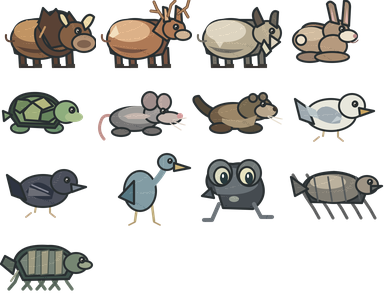
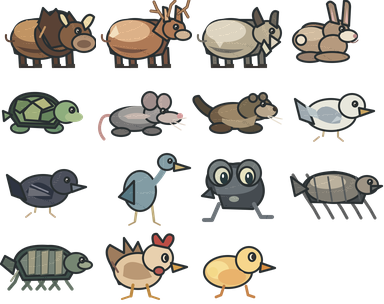
Complete V124 wildlife set with hens and growing ducklings, preserve flight lifecycle

Changed region(s): [[0.25, 0.7697, 0.5, 1.0], [0.5312, 0.7993, 0.7188, 0.977]]

diff --git a/haigen-v124-fauna-playtest.html b/haigen-v124-fauna-playtest.html
@@ -1091,17 +1091,17 @@ illustratedExtraFauna.onload=()=>{
  window.__v124ExtraFaunaReady=illustratedExtraReady;
 };
 illustratedExtraFauna.onerror=()=>{illustratedExtraReady=false;window.__v124ExtraFaunaReady=false};
-illustratedExtraFauna.src='./assets/haigen-extra-fauna-v124.png?v=1';
+illustratedExtraFauna.src='./assets/haigen-extra-fauna-v124.png?v=2';
 const extraFaunaCells={
  bison:[0,0],stag:[1,0],goat:[2,0],hare:[3,0],
  turtle:[0,1],rat:[1,1],otter:[2,1],gull:[3,1],
  raven:[0,2],heron:[1,2],watcher:[2,2],ashCreeper:[3,2],
- scuttleback:[0,3]
+ scuttleback:[0,3],chicken:[1,3],duckling:[2,3]
 };
 function drawIllustratedExtraFauna(kind,x,y,dir='right',walking=false,anim=0,scale=1){
  const cell=extraFaunaCells[kind];if(!illustratedExtraReady||!cell)return false;
  const large=['bison','stag','goat'].includes(kind);
- const gScale=(large?1.1:kind==='hare'?.85:kind==='rat'?.75:.95)*Math.max(.62,Math.min(1.5,scale));
+ const gScale=(large?1.1:kind==='hare'?.85:kind==='rat'?.75:kind==='chicken'?.52:kind==='duckling'?.77:.95)*Math.max(kind==='duckling'?.25:.62,Math.min(1.5,scale));
  const width=96*gScale,height=76*gScale;
  const stride=walking?Math.sin(anim*.012):0;
  const bob=walking?Math.abs(stride)*(kind==='hare'?7:kind==='rat'?2:2):0;
@@ -4466,6 +4466,13 @@ function drawDuckNest(f){
 }
 function drawDuckling(ch){
  const growth=Math.min(1,ch.age),scale=.47+growth*.43;
+ if(illustratedExtraReady&&!ch.flying){
+  // Ducklings remain smaller than adults and still grow and forage normally.
+  drawIllustratedExtraFauna('duckling',ch.x,ch.y-(ch.departAlt||0),
+    ch.vx<0?'left':'right',ch.alarmed||ch.foraging,
+    time+ch.phase*1000,.36+growth*.32);
+  return;
+ }
  ctx.save();ctx.translate(ch.x,ch.y-(ch.departAlt||0));
  ctx.scale(scale,scale);
  const bob=Math.sin(time*.012+ch.phase)*(ch.alarmed?2.4:1.6);
